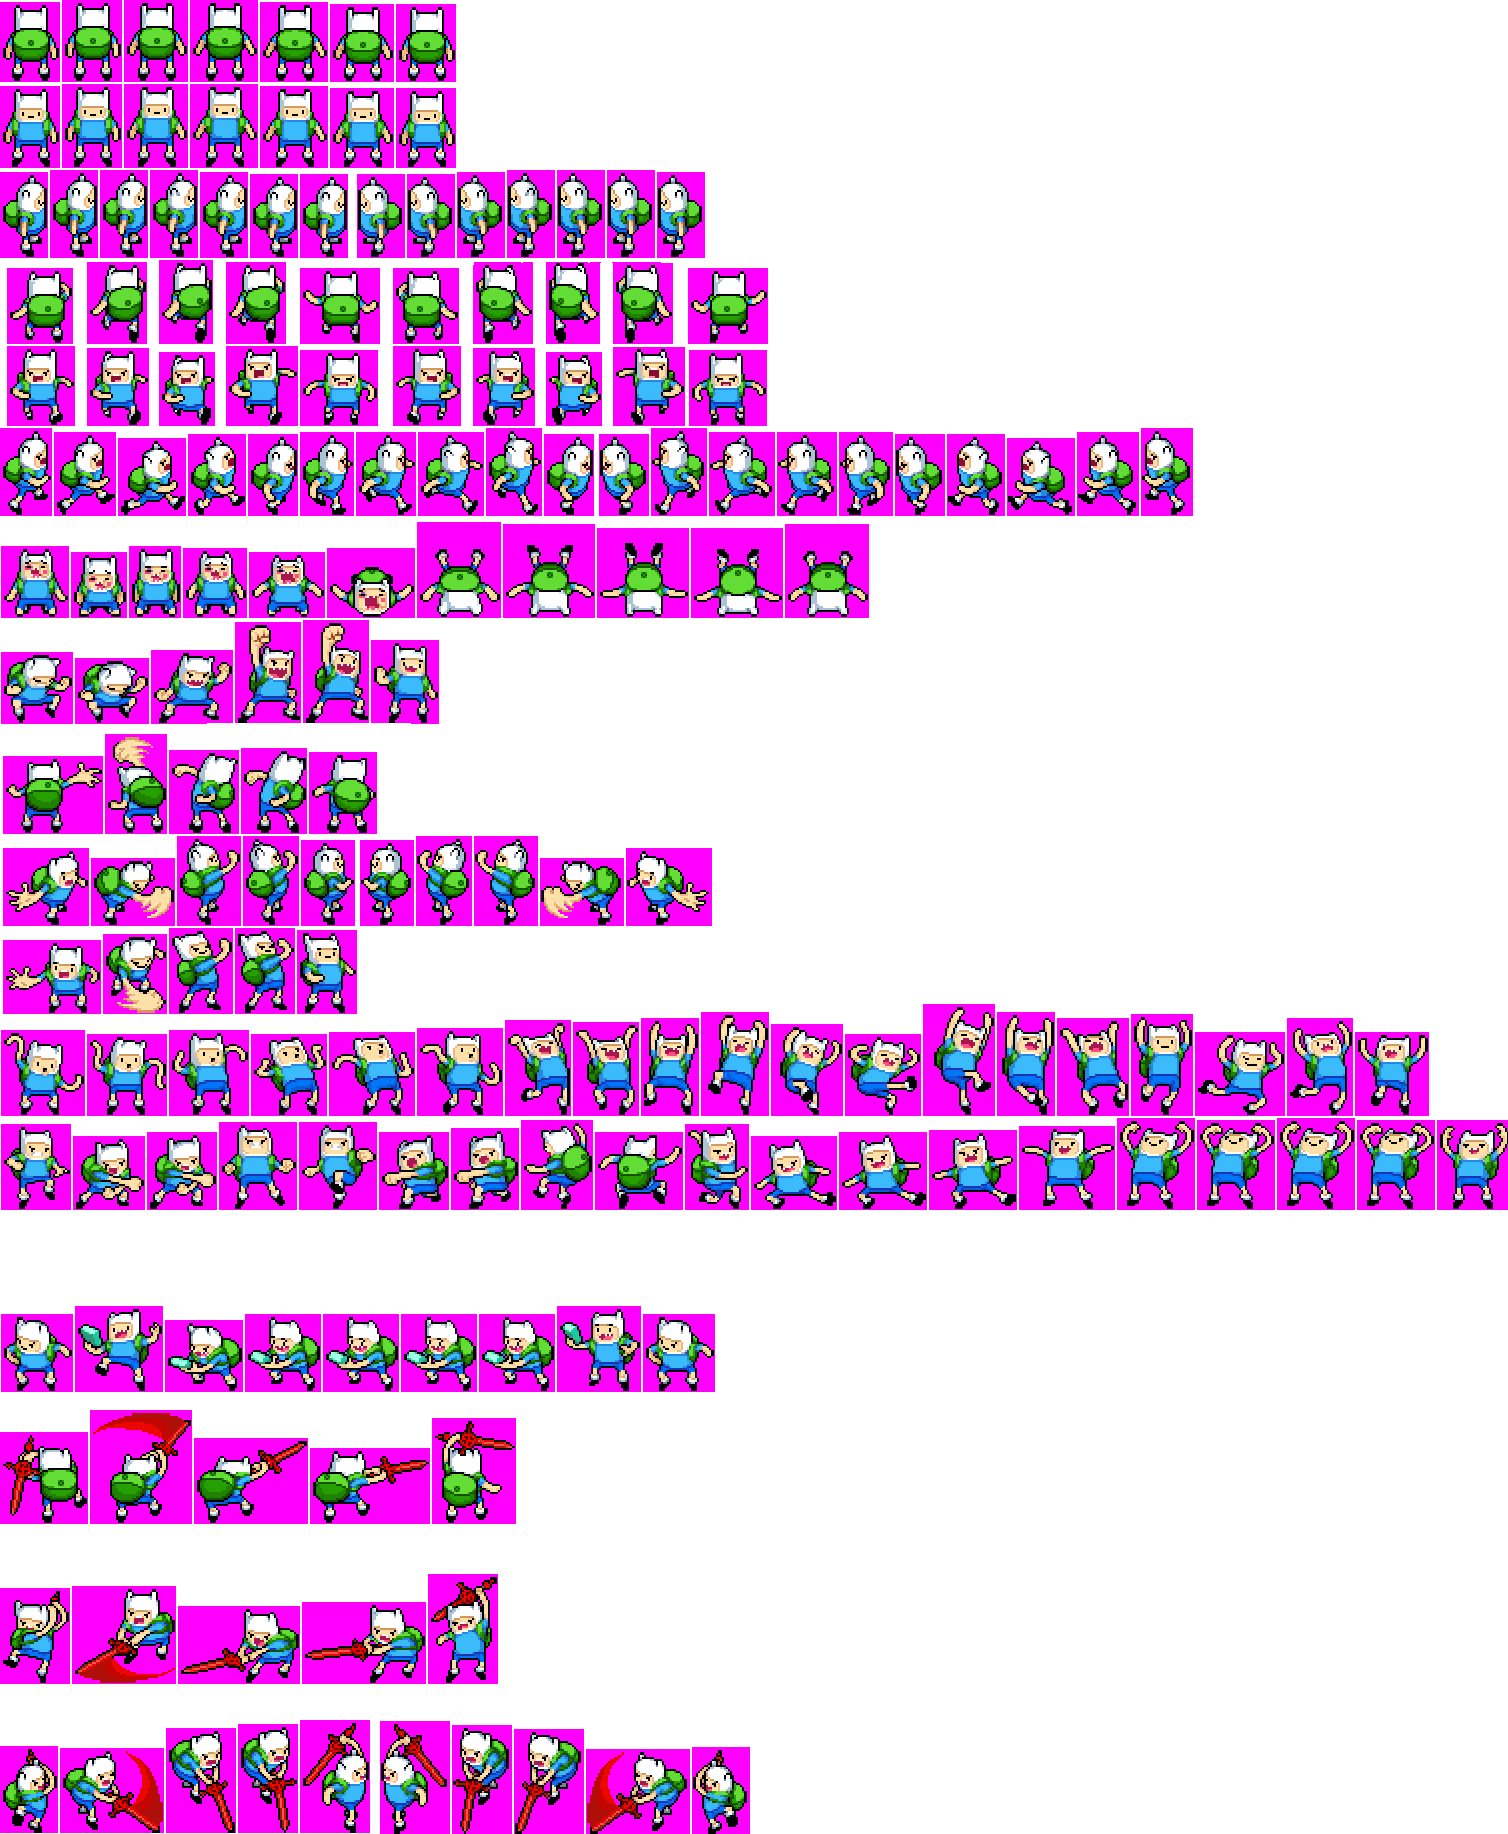
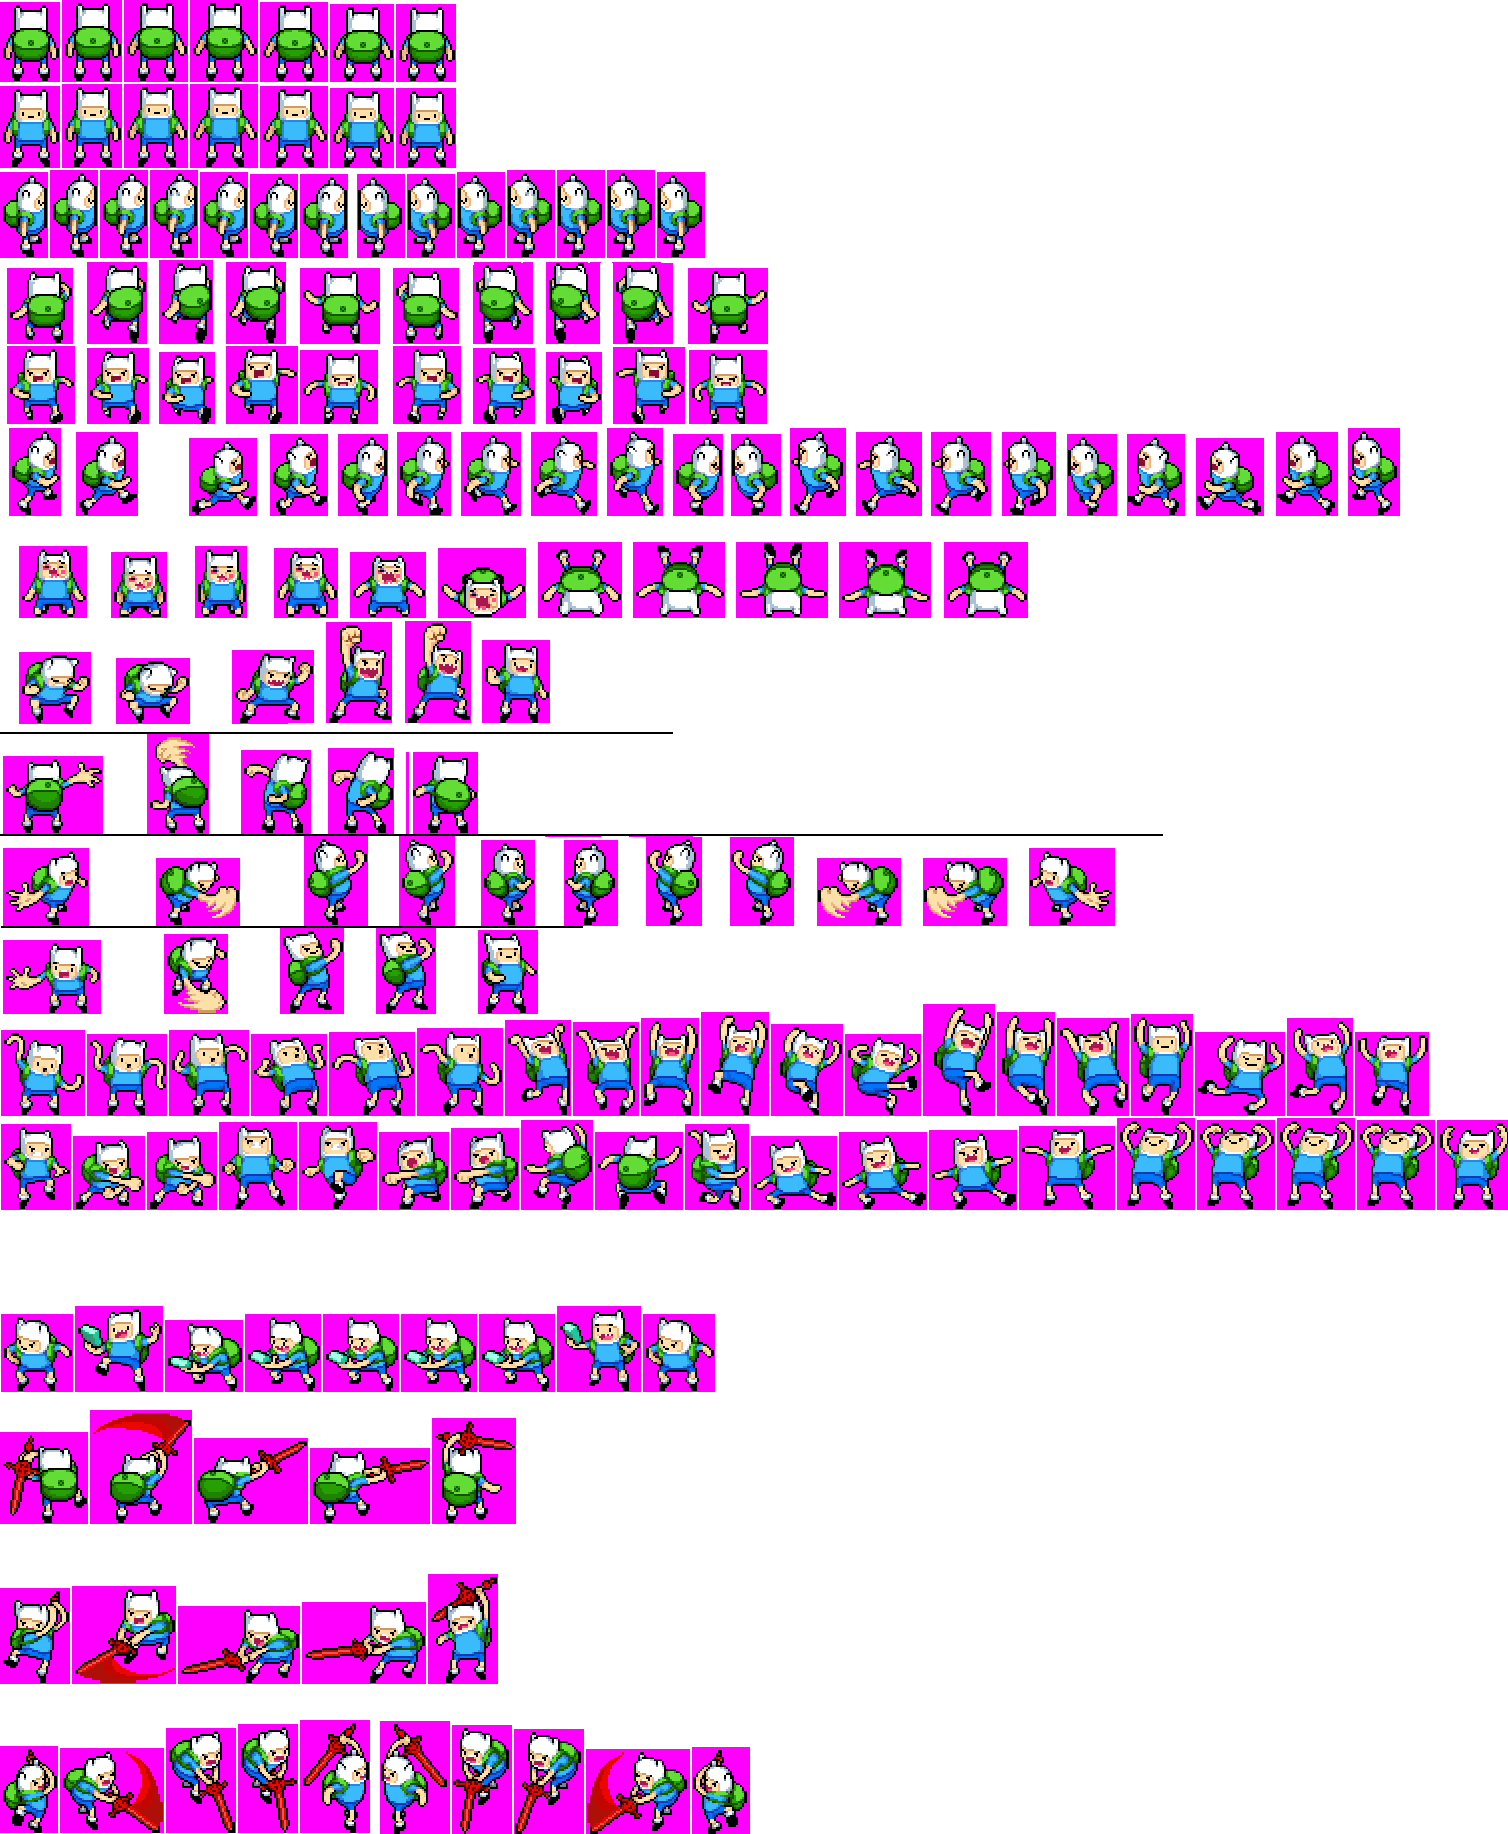
more anims (death anim, walk anim, hit anim (no sword), victory anim.

Changed region(s): [[0.0, 0.2176, 0.935, 0.5594]]

diff --git a/PFA - V2/Player.cpp b/PFA - V2/Player.cpp
@@ -29,7 +29,7 @@ Player::Player(sf::Vector2f &pos, Camera *cam) : _pos(pos), _camera(cam)
 	/*
 	** Gestion de la vie / soif / etc...
 	*/
-	_speed = 7;
+	_speed = 5;
 	_pathToGo = 0.f;
 	_damages = 10;
 	_life = 100;
@@ -247,7 +247,7 @@ void Player::moveToNextWP()
 	}
 	else {
 		doActionOnEntity();
-		changeToIdleAnim();
+		//changeToIdleAnim();
 		//_animatedSprite->stop();
 		_isMoving = false;
 		_hasAPath = false;
@@ -460,29 +460,99 @@ void Player::loadAnimation(std::string const & string_anim, float speed)
 	_walkDownAnim->addFrame(sf::IntRect(534, 346, 78, 80));
 	_walkDownAnim->addFrame(sf::IntRect(609, 346, 78, 80));
 	_walkDownAnim->addFrame(sf::IntRect(688, 346, 78, 80));
-	/*_walkDownAnim->addFrame(sf::IntRect(7, 245, 18, 29));
-	_walkDownAnim->addFrame(sf::IntRect(38, 243, 18, 28));
-	_walkDownAnim->addFrame(sf::IntRect(68, 246, 18, 25));
-	_walkDownAnim->addFrame(sf::IntRect(102, 246, 18, 29));
-	_walkDownAnim->addFrame(sf::IntRect(134, 245, 18, 28));
-	_walkDownAnim->addFrame(sf::IntRect(171, 248, 18, 25));
-	*/
-	_curAnim = _idleDownAnim;
+
 	
-	_walkLeftAnim = new Animation();
-	_walkLeftAnim->setSpriteSheet(*imgAnim);
-	/*A ENLEVER !!*/
-	_walkLeftAnim->addFrame(sf::IntRect(464, 346, 78, 80));
-	/*A ENLEVER !!*/
 	_walkRightAnim = new Animation();
 	_walkRightAnim->setSpriteSheet(*imgAnim);
-	/*A ENLEVER !!*/
-	_walkRightAnim->addFrame(sf::IntRect(464, 346, 78, 80));
-	/*A ENLEVER !!*/
+	_walkRightAnim->addFrame(sf::IntRect(1, 428, 68, 88));
+	_walkRightAnim->addFrame(sf::IntRect(73, 428, 68, 88));
+	_walkRightAnim->addFrame(sf::IntRect(189, 428, 68, 88));
+	_walkRightAnim->addFrame(sf::IntRect(265, 428, 68, 88));
+	_walkRightAnim->addFrame(sf::IntRect(329, 428, 68, 88));
+	_walkRightAnim->addFrame(sf::IntRect(390, 428, 68, 88));
+	_walkRightAnim->addFrame(sf::IntRect(457, 428, 68, 88));
+	_walkRightAnim->addFrame(sf::IntRect(530, 428, 68, 88));
+	_walkRightAnim->addFrame(sf::IntRect(601, 428, 68, 88));
+	_walkRightAnim->addFrame(sf::IntRect(664, 428, 68, 88));
+
+
+
+
+
+	_walkLeftAnim = new Animation();
+	_walkLeftAnim->setSpriteSheet(*imgAnim);
+	_walkLeftAnim->addFrame(sf::IntRect(722, 428, 68, 88));
+	_walkLeftAnim->addFrame(sf::IntRect(784, 428, 68, 88));
+	_walkLeftAnim->addFrame(sf::IntRect(855, 428, 68, 88));
+	_walkLeftAnim->addFrame(sf::IntRect(927, 428, 68, 88));
+	_walkLeftAnim->addFrame(sf::IntRect(995, 428, 68, 88));
+	_walkLeftAnim->addFrame(sf::IntRect(1058, 428, 68, 88));
+	_walkLeftAnim->addFrame(sf::IntRect(1122, 428, 68, 88));
+	_walkLeftAnim->addFrame(sf::IntRect(1196, 428, 68, 88));
+	_walkLeftAnim->addFrame(sf::IntRect(1273, 428, 68, 88));
+	_walkLeftAnim->addFrame(sf::IntRect(1340, 428, 68, 88));
+
+	_deathAnim = new Animation();
+	_deathAnim->setSpriteSheet(*imgAnim);
+	_deathAnim->addFrame(sf::IntRect(7, 541, 92, 77));
+	_deathAnim->addFrame(sf::IntRect(93, 541, 92, 77));
+	_deathAnim->addFrame(sf::IntRect(175, 541, 92, 77));
+	_deathAnim->addFrame(sf::IntRect(260, 541, 92, 77));
+	_deathAnim->addFrame(sf::IntRect(342, 541, 92, 77));
+	_deathAnim->addFrame(sf::IntRect(436, 541, 92, 77));
+	_deathAnim->addFrame(sf::IntRect(534, 541, 92, 77));
+	_deathAnim->addFrame(sf::IntRect(633, 541, 92, 77));
+	_deathAnim->addFrame(sf::IntRect(736, 541, 92, 77));
+	_deathAnim->addFrame(sf::IntRect(839, 541, 92, 77));
+	_deathAnim->addFrame(sf::IntRect(940, 541, 92, 77));
+
+	_victoryAnim = new Animation();
+	_victoryAnim->setSpriteSheet(*imgAnim);
+	_victoryAnim->addFrame(sf::IntRect(14, 621, 83, 103));
+	_victoryAnim->addFrame(sf::IntRect(112, 621, 83, 103));
+	_victoryAnim->addFrame(sf::IntRect(232, 621, 83, 103));
+	_victoryAnim->addFrame(sf::IntRect(318, 621, 83, 103));
+	_victoryAnim->addFrame(sf::IntRect(397, 621, 83, 103));
+	_victoryAnim->addFrame(sf::IntRect(475, 621, 83, 103));
+
+	_hitUpAnim = new Animation();
+	_hitUpAnim->setSpriteSheet(*imgAnim);
+	_hitUpAnim->addFrame(sf::IntRect(3, 734, 100, 100));
+	_hitUpAnim->addFrame(sf::IntRect(128, 734, 100, 100));
+	_hitUpAnim->addFrame(sf::IntRect(226, 734, 100, 100));
+	_hitUpAnim->addFrame(sf::IntRect(311, 734, 100, 100));
+	_hitUpAnim->addFrame(sf::IntRect(396, 734, 100, 100));
+
+	_hitRightAnim = new Animation();
+	_hitRightAnim->setSpriteSheet(*imgAnim);
+	_hitRightAnim->addFrame(sf::IntRect(3, 836, 86, 90));
+	_hitRightAnim->addFrame(sf::IntRect(155, 836, 86, 90));
+	_hitRightAnim->addFrame(sf::IntRect(293, 836, 86, 90));
+	_hitRightAnim->addFrame(sf::IntRect(384, 836, 86, 90));
+	_hitRightAnim->addFrame(sf::IntRect(465, 836, 86, 90));
+
+	_hitLeftAnim = new Animation();
+	_hitLeftAnim->setSpriteSheet(*imgAnim);
+	_hitLeftAnim->addFrame(sf::IntRect(548, 836, 86, 90));
+	_hitLeftAnim->addFrame(sf::IntRect(631, 836, 86, 90));
+	_hitLeftAnim->addFrame(sf::IntRect(719, 836, 86, 90));
+	_hitLeftAnim->addFrame(sf::IntRect(816, 836, 86, 90));
+	_hitLeftAnim->addFrame(sf::IntRect(1029, 836, 86, 90));
+
+	_hitDownAnim = new Animation();
+	_hitDownAnim->setSpriteSheet(*imgAnim);
+	_hitDownAnim->addFrame(sf::IntRect(3, 928, 98, 86));
+	_hitDownAnim->addFrame(sf::IntRect(147, 928, 98, 86));
+	_hitDownAnim->addFrame(sf::IntRect(263, 928, 98, 86));
+	_hitDownAnim->addFrame(sf::IntRect(357, 928, 98, 86));
+	_hitDownAnim->addFrame(sf::IntRect(459, 928, 98, 86));
 
 	_animatedSprite = new AnimatedSprite(sf::seconds(0.1), true, false);
 	_animatedSprite->setScale(0.5, 0.5);
-	//
+
+	_curAnim = _hitDownAnim;
+
+
 	_animatedSprite->play(*_curAnim);
 	
 	

diff --git a/PFA - V2/PalmTree.cpp b/PFA - V2/PalmTree.cpp
@@ -4,6 +4,7 @@
 #include	"Map.h"
 #include	"MapEnvironment.h"
 #include	"Player.h"
+#include "Wood.h"
 
 void PalmTree::Animate(std::string const &)
 {
@@ -58,7 +59,7 @@ void PalmTree::getAction(IEntity *other)
 	try // si c'est un player
 	{
 		Player *player = dynamic_cast<Player *>(other);
-		player->addEntityInInventory(this);
+		player->addEntityInInventory(new Wood);
 	}
 	catch (std::bad_cast ex)
 	{

diff --git a/PFA - V2/Player.h b/PFA - V2/Player.h
@@ -80,6 +80,12 @@ protected:
 	Animation					*_idleRightAnim;
 	Animation					*_idleLeftAnim;
 	Animation					*_idleUpAnim;
+	Animation					*_hitUpAnim;
+	Animation					*_hitRightAnim;
+	Animation					*_hitLeftAnim;
+	Animation					*_hitDownAnim;
+	Animation					*_deathAnim;
+	Animation					*_victoryAnim;
 	AnimatedSprite				*_animatedSprite;
 
 	void					addInInventoryWindow(IEntity *, int pos);
